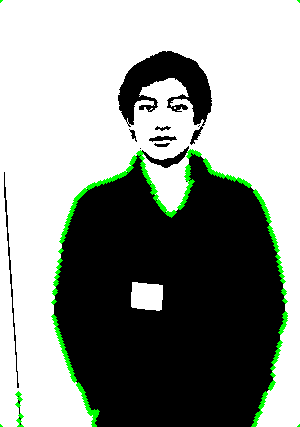
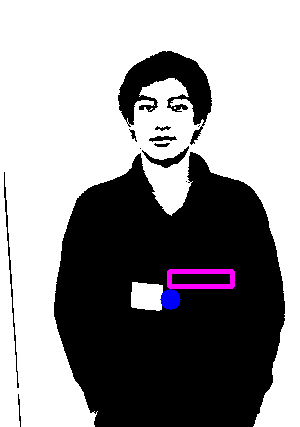
javascrupt

diff --git a/facemapper/test.py b/facemapper/test.py
@@ -11,12 +11,31 @@ def show_webcam():
 	#while True:
 	#ret_val, frame = cam.read()
 	frame = cv2.imread('../otsukevin2.png')
+	frame2 = np.copy(frame)
+	y, x, c = frame.shape
+	cv2.rectangle(frame,(0, y - 3),(x, y),(255,255,255),4)
 	gray = cv2.cvtColor(frame, cv2.COLOR_BGR2GRAY)
 	ret, thresh = cv2.threshold(gray, 127, 255, 0)
-	im2, contours, hierarchy = cv2.findContours(thresh,       cv2.RETR_TREE, cv2.CHAIN_APPROX_SIMPLE)
+	frame[thresh == 0] = [0, 0, 255]
+	im2, contours, hierarchy = cv2.findContours(thresh, cv2.RETR_TREE, cv2.CHAIN_APPROX_SIMPLE)
 	#cv2.drawContours(frame, contours, -1, (0,255,0), 3)
 	c = max(contours, key=cv2.contourArea)
-	cv2.drawContours(frame, c, -1, (0,255,0), 3)
+	contours.remove(c)
+	c = max(contours, key=cv2.contourArea)
+	#print(c)
+	M = cv2.moments(c)
+	cv2.drawContours(frame, [c], -1, (0,255,0), 4)
+	#frame = frame[h:y-h, w:x-w]
+	cx = int(M["m10"] / M["m00"])
+	cy = int(M["m01"] / M["m00"])
+	mar1, mar2 = [z for z in [list(x) for x in list(cv2.minAreaRect(c)[:-1])]]
+	mar1 = [int(x) for x in mar1]
+	mar2 = [int(x) for x in mar2]
+	cv2.rectangle(frame2, tuple(mar1), tuple(mar2), (255, 0, 255), 4)
+	cv2.circle(frame2, (cx, cy), 10, (255, 0, 0), -1)
+	simg = cv2.imread('../qipao.png')
+	#print(simg.shape, frame2.shape)
+	#frame2[cy:cy+simg.shape[0], cx:cx+simg.shape[1]] = simg
 	#faces = face_cascade.detectMultiScale(gray, 1.3, 5)
 	'''
 	for (x,y,w,h) in faces:
@@ -24,7 +43,7 @@ def show_webcam():
        	cv2.imshow("Frame", frame)
 	
                '''
-	cv2.imwrite('final.png', frame)
+	cv2.imwrite('final.png', frame2)
 	#key = cv2.waitKey(1) & 0xFF
 	#if key == ord("q"):
 	#	break
